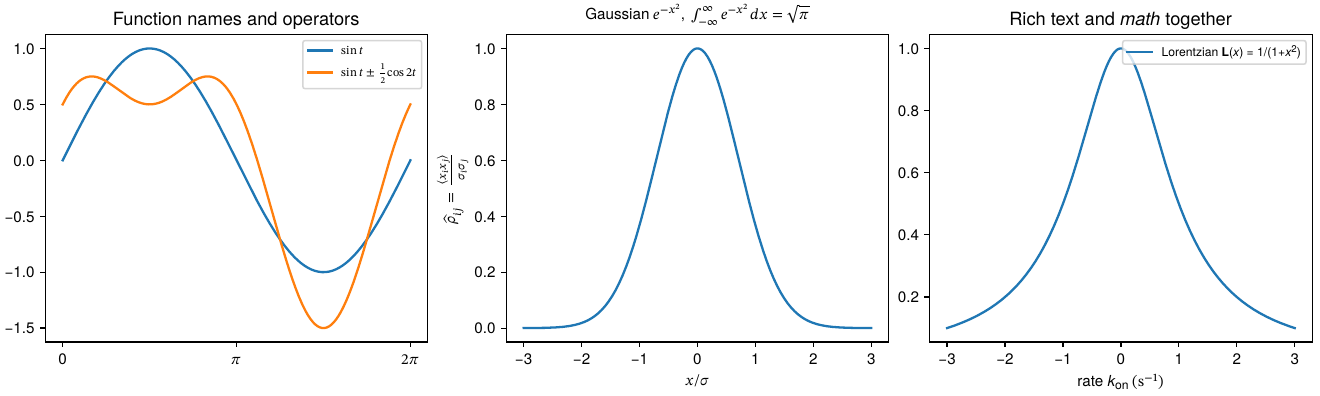
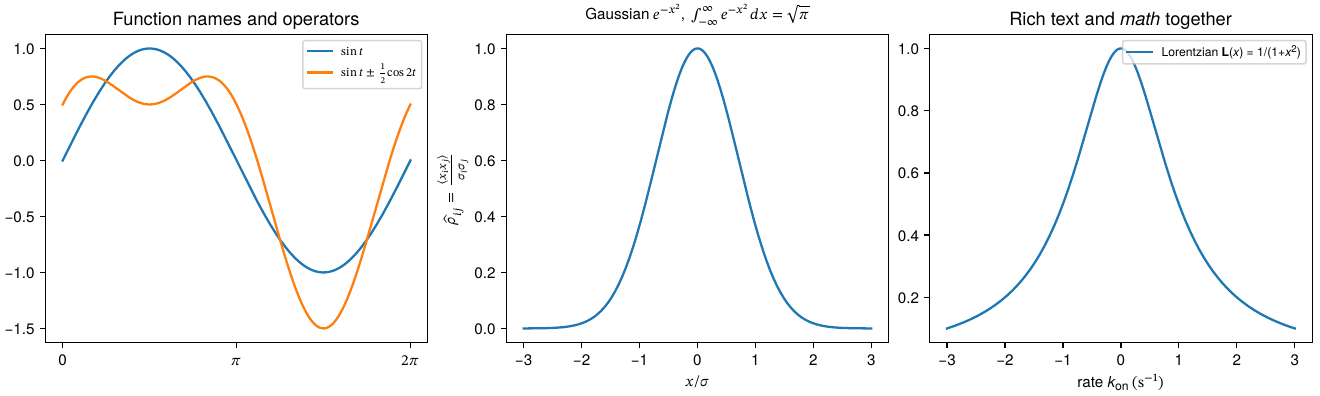
Remove font remapping; set tick label exponents as text
\mathdefault{...} (what Matplotlib's formatters emit) is now inline XHTML with
sup/sub in the label font instead of MathML. config.font_map is gone; fonts are
passed through as named. Examples set font.family explicitly.

Claude-Session: https://claude.ai/code/session_013tC2zgFMryrbrW6sVkM2pk

diff --git a/umbruch_matplotlib.py b/umbruch_matplotlib.py
@@ -152,11 +152,6 @@ class _Config:
     #: "subdivide"; "subdivide": flat sub-triangles (works with any renderer);
     #: "native": exact vertex colors in data-colors, for a renderer that writes a
     #: type 4 shading; "stock": Matplotlib's three-gradient filter emulation.
-    #: Families Matplotlib asks for -> what umbruch is asked for instead.  Umbruch bundles
-    #: all four faces of the TeX Gyre families (and only regular and bold of DejaVu Sans),
-    #: so by default text is set in those; use {} to ask for exactly what Matplotlib names.
-    font_map = {"DejaVu Sans": "TeX Gyre Heros", "DejaVu Sans Mono": "TeX Gyre Cursor",
-                "DejaVu Serif": "TeX Gyre Termes"}
     gouraud = "auto"
     gouraud_max_level = 8
 
@@ -510,7 +505,7 @@ def _font_spec(prop):
             names += ["sans-serif" if n in ("sans", "sans serif") else n
                       for n in fm.FontManager._expand_aliases(entry)]
         names.append(entry)
-    names = list(dict.fromkeys(config.font_map.get(n, n) for n in names))
+    names = list(dict.fromkeys(names))
     quoted = [n if n in fm.font_family_aliases or n == "sans-serif" else repr(n)
               for n in names]
     return {"prop": prop, "family": names, "size": float(prop.get_size()), "weight": int(weight),
@@ -521,6 +516,78 @@ def _font_spec(prop):
                     f"font-variant:{prop.get_variant()}"
                     + ("" if prop.get_stretch() == "normal" else
                        f";font-stretch:{prop.get_stretch()}"))}
+
+
+_TEXT_MACROS = {"times": "\u00d7", "cdot": "\u00b7", "pm": "\u00b1", ",": "\u2009",
+                ";": "\u2005", " ": " ", "%": "%", "_": "_", "{": "{", "}": "}",
+                "$": "$", "#": "#", "&": "&"}
+
+
+def _mathdefault_html(tex):
+    """Matplotlib wraps tick labels in ``\\mathdefault{...}`` to say "set this in the
+    regular text font" (``10^{3}``, ``1\\times10^{-2}``).  That is text with scripts,
+    not math, so it becomes inline XHTML in the surrounding font.  Anything beyond that
+    small subset raises ValueError."""
+    def group(i, closing):
+        out = []
+        while i < len(tex):
+            c = tex[i]
+            if c == "}":
+                if closing:
+                    return "".join(out), i + 1
+                raise ValueError(f"unbalanced '}}' in {tex!r}")
+            if c == "\\":
+                j = i + 1
+                if j < len(tex) and tex[j].isalpha():
+                    while j < len(tex) and tex[j].isalpha():
+                        j += 1
+                    name = tex[i + 1:j]
+                else:
+                    name, j = tex[i + 1:j + 1], j + 1
+                if name == "mathdefault":
+                    if j >= len(tex) or tex[j] != "{":
+                        raise ValueError(f"\\mathdefault needs a braced argument in {tex!r}")
+                    inner, i = group(j + 1, True)
+                    out.append(inner)
+                elif name in _TEXT_MACROS:
+                    out.append(escape(_TEXT_MACROS[name]))
+                    i = j
+                else:
+                    raise ValueError(f"\\{name} is not supported in \\mathdefault text "
+                                     f"{tex!r}")
+            elif c in "^_":
+                tag = "sup" if c == "^" else "sub"
+                i += 1
+                if i >= len(tex):
+                    raise ValueError(f"dangling {c!r} in {tex!r}")
+                if tex[i] == "{":
+                    inner, i = group(i + 1, True)
+                else:
+                    inner, i = group_one(i)
+                out.append(f"<{tag}>{inner}</{tag}>")
+            elif c == "{":
+                inner, i = group(i + 1, True)
+                out.append(inner)
+            else:
+                out.append(escape("\u2212" if c == "-" else c))
+                i += 1
+        if closing:
+            raise ValueError(f"unbalanced '{{' in {tex!r}")
+        return "".join(out), i
+
+    def group_one(i):
+        # a single character or macro as script argument
+        if tex[i] == "\\":
+            j = i + 2 if not tex[i + 1:i + 2].isalpha() else i + 1
+            while j < len(tex) and tex[i + 1:i + 2].isalpha() and tex[j].isalpha():
+                j += 1
+            return group_sub(tex[i:j]), j
+        return escape("\u2212" if tex[i] == "-" else tex[i]), i + 1
+
+    def group_sub(piece):
+        return _mathdefault_html(piece)
+
+    return group(0, False)[0]
 
 
 _MATH_RE = re.compile(r"(?<!\\)\$(.+?)(?<!\\)\$", re.S)
@@ -586,6 +653,11 @@ class RendererUmbruch(RendererSVG):
         conv = config.tex_to_mathml or _default_tex_to_mathml
         out, pos = [], 0
         for m in _MATH_RE.finditer(s):
+            if m.group(1).lstrip().startswith("\\mathdefault{"):
+                out.append(esc(s[pos:m.start()]).replace(r"\$", "$"))
+                out.append(_mathdefault_html(m.group(1).strip()))
+                pos = m.end()
+                continue
             try:
                 ml = conv(m.group(1))
             except Exception as e:  # a converter that cannot read this TeX

diff --git a/tests/test_umbruch_matplotlib.py b/tests/test_umbruch_matplotlib.py
@@ -64,7 +64,6 @@ if not have_umbruch:
 
 # 3. metrics: ink heights/descents come from umbruch's measure op and must agree with
 # Matplotlib's own glyph extents to within 2% of the font size
-hb.config.font_map = {}   # compare like with like: Matplotlib measures DejaVu Sans
 bridge = hb.get_bridge()
 assert isinstance(bridge, hb.UmbruchServer), type(bridge)
 assert bridge.request('hello', {})[0]['protocol'] == 1
@@ -77,7 +76,6 @@ w, h, d = bridge.measure("E = mc<sup>2</sup>", hb._font_spec(FontProperties(size
 _, h0, _ = bridge.measure("E = mc2", hb._font_spec(FontProperties(size=10)))
 assert h > h0, "a superscript must make the box taller"
 
-hb.config.font_map = type(hb.config).font_map
 bridge._cache.clear()
 
 # 4. end to end: PDF, tight bbox, text is real text
@@ -111,6 +109,23 @@ plt.close(fig)
 print("failure tests ok")
 
 
+def test_tick_label_exponents_use_the_text_font():
+    import matplotlib.pyplot as plt, subprocess, tempfile
+    fig, ax = plt.subplots()
+    ax.loglog([1, 1e4], [1e-3, 1e3])
+    path = os.path.join(tempfile.mkdtemp(), "log.pdf")
+    fig.savefig(path)
+    fonts = subprocess.run(["pdffonts", path], capture_output=True, text=True).stdout
+    assert "STIX" not in fonts, fonts
+    for bad in (r"\mathdefault{\alpha}",):
+        try:
+            hb._mathdefault_html(bad)
+        except ValueError:
+            pass
+        else:
+            raise AssertionError("unsupported macro must raise")
+
+
 def test_single_letter_mathrm_is_upright():
     import umbruch_matplotlib as u
     ml = u._default_tex_to_mathml(r"\mathrm{s}^{-1}")
@@ -119,4 +134,5 @@ def test_single_letter_mathrm_is_upright():
 
 
 if __name__ == "__main__":
+    test_tick_label_exponents_use_the_text_font()
     test_single_letter_mathrm_is_upright()

diff --git a/examples/rich_text.py b/examples/rich_text.py
@@ -1,5 +1,6 @@
 import os
 import numpy as np, matplotlib; matplotlib.use("module://umbruch_matplotlib")
+matplotlib.rcParams["font.family"] = "TeX Gyre Heros"   # ships with umbruch; has italic and bold
 import matplotlib.pyplot as plt
 from umbruch_matplotlib import rich
 fig,axs=plt.subplots(1,2,figsize=(9,3.6),constrained_layout=True)

diff --git a/examples/showcase.py b/examples/showcase.py
@@ -1,5 +1,6 @@
 import os
 import numpy as np, matplotlib; matplotlib.use("module://umbruch_matplotlib")
+matplotlib.rcParams["font.family"] = "TeX Gyre Heros"   # ships with umbruch; has italic and bold
 import matplotlib.pyplot as plt
 from matplotlib.patches import Rectangle
 from umbruch_matplotlib import rich

diff --git a/examples/math.py b/examples/math.py
@@ -1,5 +1,6 @@
 import os
 import numpy as np, matplotlib; matplotlib.use("module://umbruch_matplotlib")
+matplotlib.rcParams["font.family"] = "TeX Gyre Heros"   # ships with umbruch; has italic and bold
 import matplotlib.pyplot as plt
 from umbruch_matplotlib import rich
 

diff --git a/README.md b/README.md
@@ -24,8 +24,9 @@ Install with `pip install .[math]` (the `math` extra pulls in `latex2mathml`).
 Unsupported features raise instead of falling back to Matplotlib's own text rendering:
 `text.usetex`, and TeX that cannot be converted to MathML.
 
-Defaults: DejaVu families are mapped to the bundled TeX Gyre fonts (`config.font_map`),
-Gouraud triangles are subdivided until umbruch reports `mesh_gouraud`.
+Fonts are passed to umbruch exactly as Matplotlib names them; nothing is remapped. Umbruch bundles all four faces of TeX Gyre Heros, Cursor and Termes, but only the regular and bold faces of DejaVu Sans, so with Matplotlib's default family italic text is set upright. Set the family you want, for example `matplotlib.rcParams["font.family"] = "TeX Gyre Heros"`.
+
+Tick labels with exponents (`10^3`, `1×10^-4`) are set as text with superscripts in the label font, not as math. Math in `$...$` is converted to MathML and set in STIX Two Math. Gouraud triangles are subdivided until umbruch reports `mesh_gouraud`.
 
 ## Examples
 
